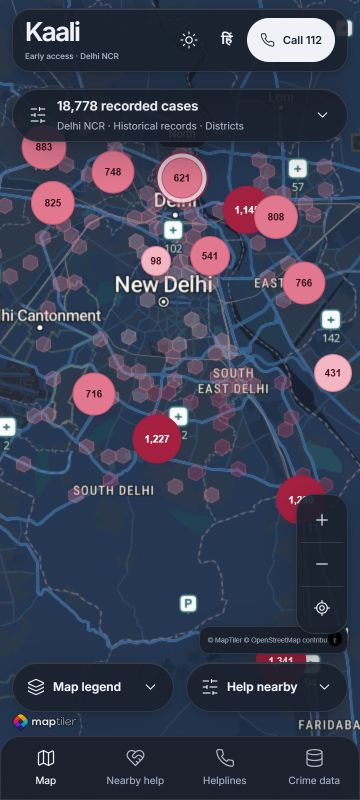
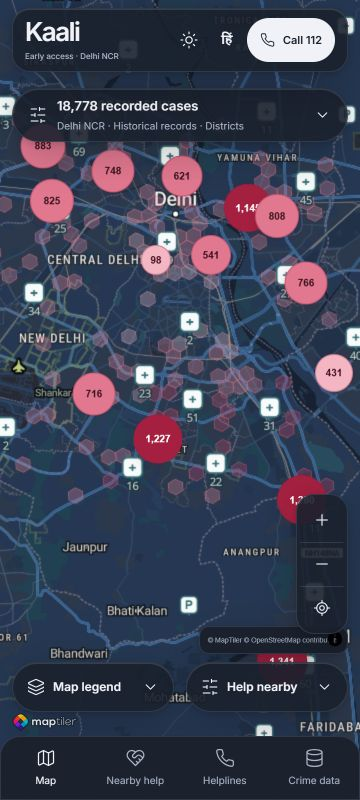
Record deployed mobile layout verification

diff --git a/BUILD_STATUS.md b/BUILD_STATUS.md
@@ -364,3 +364,4 @@ Fresh project-runtime checks now pass for tables, geometry, projection, news ext
 - Mobile emergency markers are smaller and use wider clustering with collision handling. Map camera padding adapts to sheets and short screens. Reduced-motion settings and safe-area insets remain supported.
 - Verified production preview at 360x800, 360x640, 390x844 and desktop 1280x720. Checked light/dark themes, search, district selection, filters, metro toggle, Escape collapse and Helplines/Crime data navigation. No horizontal overflow or browser console errors observed. Refreshed six mobile README screenshots. Live GPS and physical-phone frame rates were not tested.
 - Lint, type-check, all 100 frontend tests and production build pass. Existing lazy MapLibre chunk-size warning remains. Publication and live verification follow the existing authorized Render workflow.
+- Render deployed commit 5956ffb successfully. Live mobile verification confirms vertical controls, compact capsules, opaque sheets, both themes, no horizontal overflow and no console errors. Map mobile screenshots refreshed from the live deployment.

diff --git a/VISUAL_QA.md b/VISUAL_QA.md
@@ -19,3 +19,4 @@ Not covered: real-phone 60fps measurements, live GPS grant/movement, screen-read
 ## Mobile refinement
 
 Production preview checked at 360x800, short 360x640, 390x844 and desktop 1280x720. Mobile controls have distinct positions with one expanded sheet at a time. Sheets use an opaque theme surface to avoid labels showing through reading content. District search/Rohini selection, help filters/metro toggle, Escape collapse, both themes and mobile page navigation passed. DOM checks showed no horizontal overflow; the browser console returned no errors. Six mobile screenshots now show this production preview. Live GPS permission and physical-device performance were not tested.
+The authorized Render deployment was then checked at 360x800. Vertical controls, paired capsules and an opaque expanded help sheet are live; both themes load, no horizontal overflow or console errors were observed. Mobile map screenshots are now from that live build.
